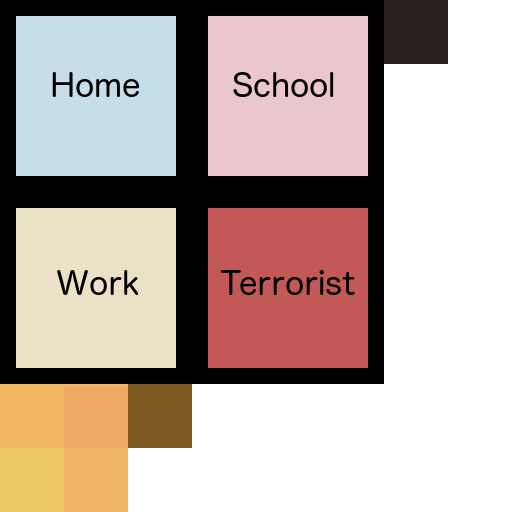
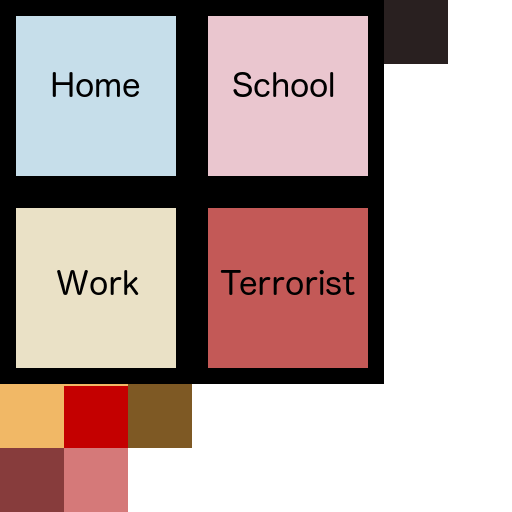
Use only one ground tile

Changed region(s): [[0.0, 0.75, 0.25, 1.0]]

diff --git a/Assets/TileMap.cs b/Assets/TileMap.cs
@@ -110,9 +110,6 @@ public class TileMap : MonoBehaviour {
     public float GetCost(byte tileType) {
         switch(tileType) {
         case 48:
-        case 49:
-        case 56:
-        case 57:
             return groundCost;
         case 50:
             return dirtCost;
